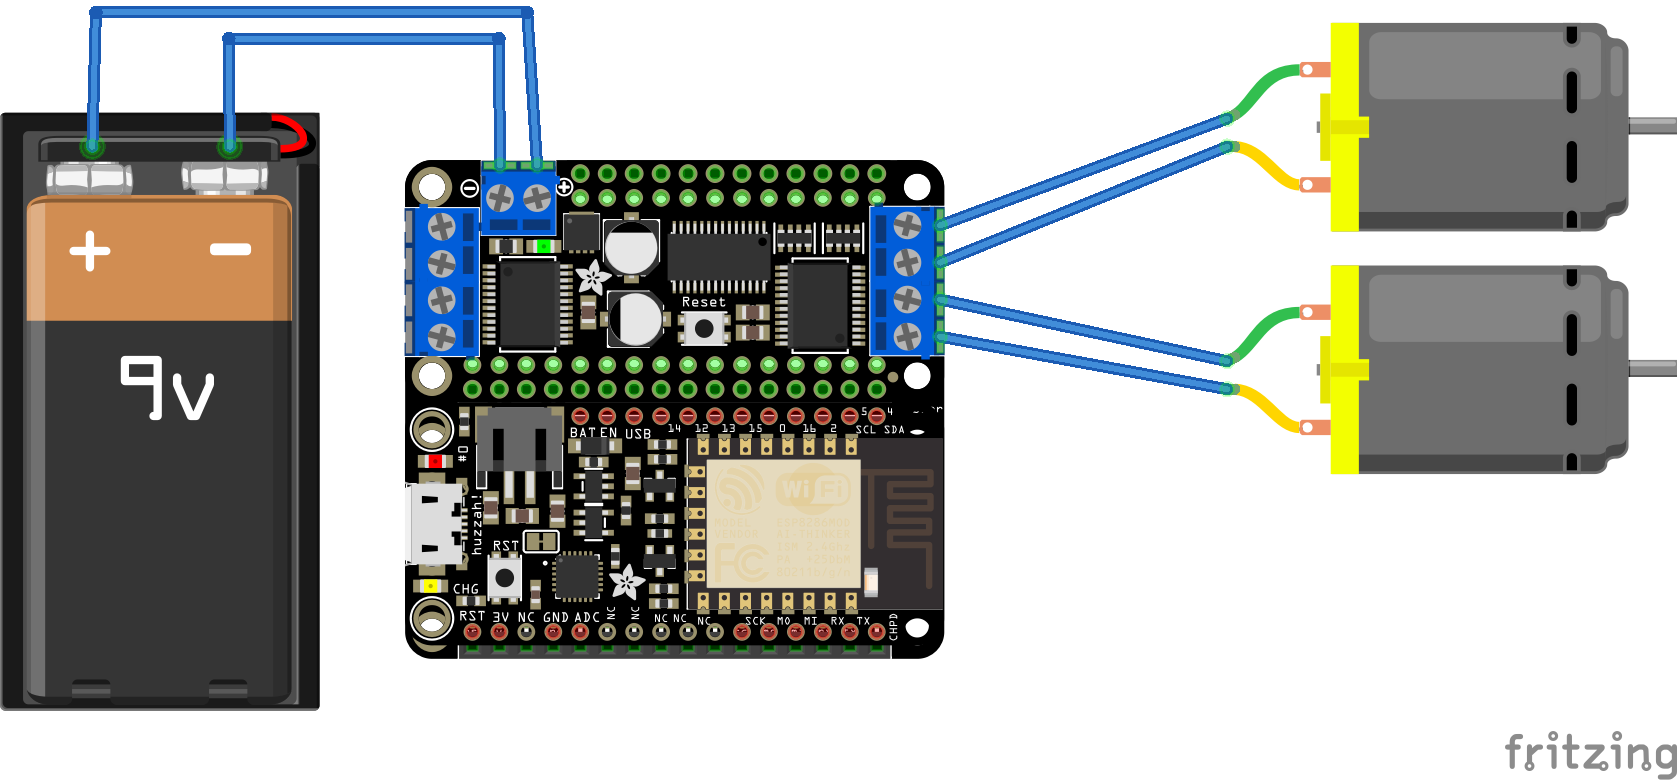
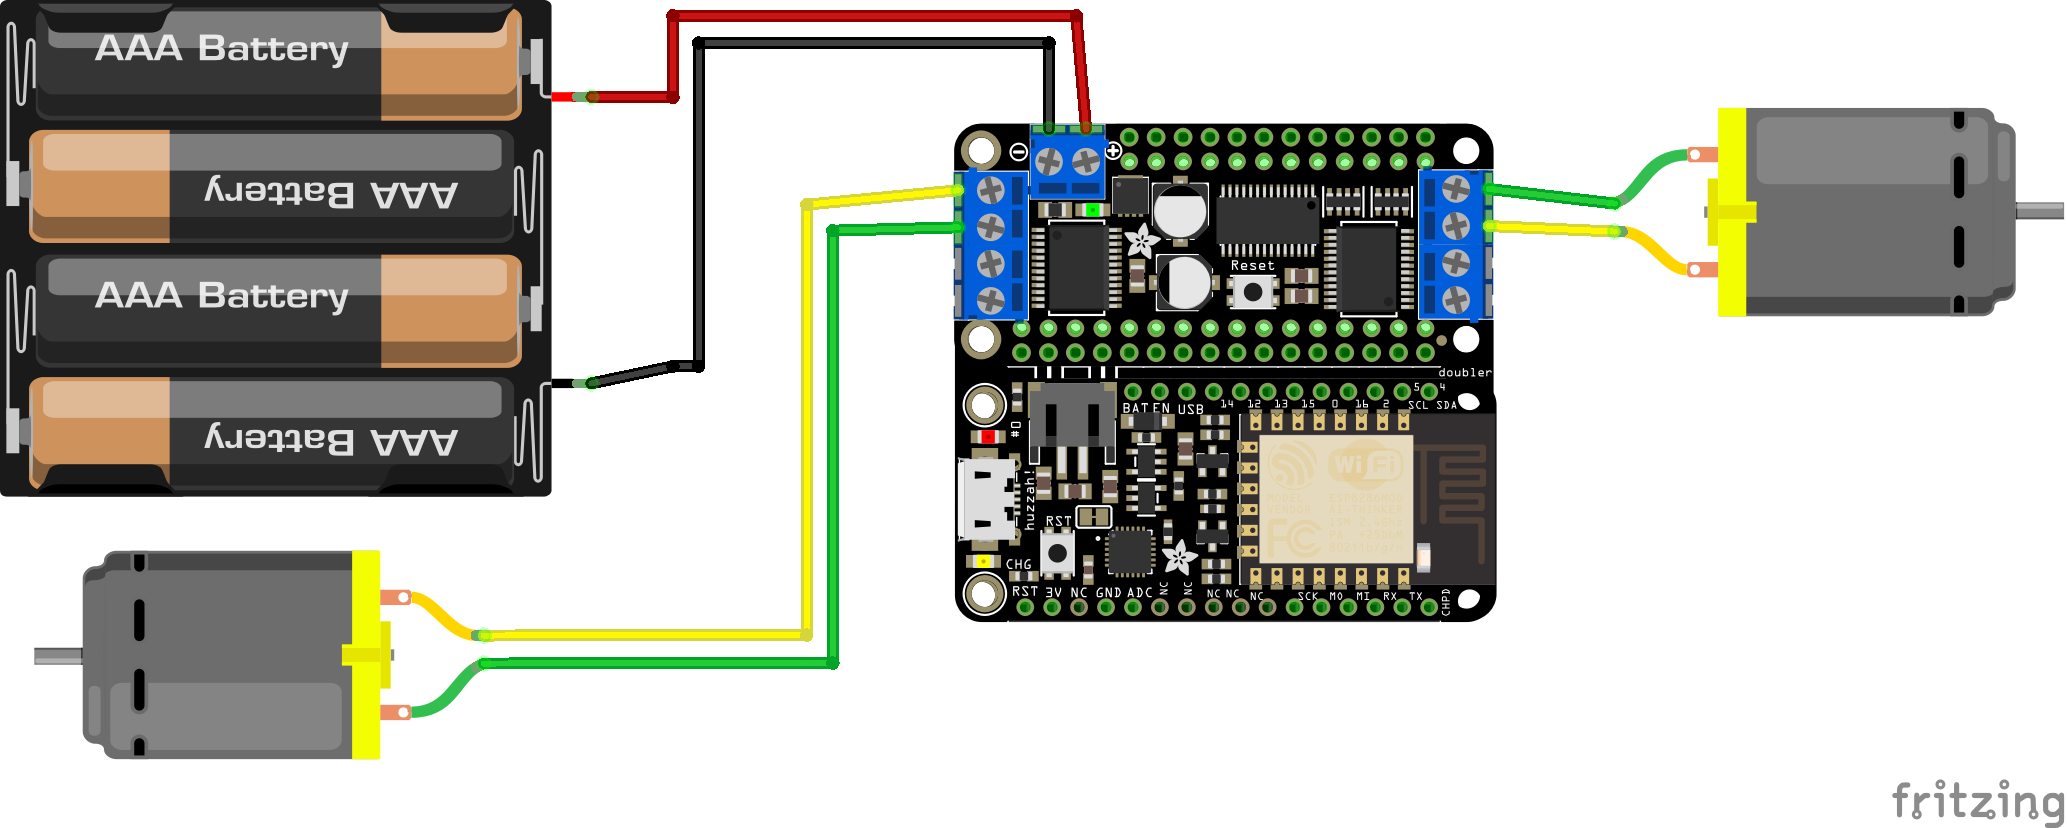
Agregando información a Readme, y agregando archivo HOWTO.md. Se refresca el diagrama para usar las actuales baterías 4xAAA

diff --git a/HOWTO.md b/HOWTO.md
@@ -1,0 +1,63 @@
+# Guía de construcción y uso del WifiCar con CircuitPython
+
+## Instrucciones
+1. Realizar conexión física
+
+Se recomienda que el soldado de los stacking headers y terminales sea realizado previo al taller. De esta forma la única herramienta necesaria sería un desatornillador de punta phillips para ensamblaje del chasis.
+
+- Soldar stacking headers en el ESP8266 y el Featherwing para motor
+- Soldar terminales de tornillo en Featherwing para motor
+- Poner baterías en holder
+- Conectar holder de baterías a puerto de batería para motor, del Featherwing para motores
+
+La tarjeta debería verse de esta forma:
+
+![Diagrama de Fritzing](https://github.com/fede2cr/CircuitPython_WifiCar/blob/master/doc/Diagrama%20conexiones%20-%20Wifi%20Car.png)
+
+2. Instalar CircuitPython en ESP8266: Se carga firmware según (instrucciones de Adafruit)[https://learn.adafruit.com/micropython-basics-how-to-load-micropython-on-a-board/?view=all#esp8266], pero usando release de CircuitPython
+
+```
+esptool.py --port /dev/ttyUSB0 erase_flash
+esptool.py --port /dev/ttyUSB0 --baud 460800 write_flash --flash_size=detect 0 adafruit-circuitpython-feather_huzzah-0.8.4.bin
+```
+Reiniciar el ESP8266, y comprobar que se puede acceder al REPL de CircuitPython, conectándose al puerto serial
+```
+screen /dev/ttyUSB0 115200
+```
+Puede salir de screen digitando ``CTRL+A`` y luego ``:quit``.
+
+3. Luego debe descargar los módulos de CircuitPython de (Featherwing de motor)[https://github.com/adafruit/Adafruit_CircuitPython_PCA9685/releases], de (Register)[https://github.com/adafruit/Adafruit_CircuitPython_Register/releases] y [Bus Device)[https://github.com/adafruit/Adafruit_CircuitPython_BusDevice/releases]:
+
+```
+export AMPY_PORT=/dev/ttyUSB0
+unzip adafruit_pca9685.zip
+ampy put adafruit_pca9685
+unzip adafruit_register.zip
+ampy put adafruit_register
+unzip adafruit_bus_device.zip
+ampy put adafruit_bus_device
+ampy ls
+```
+Ahora puedes probar un pequeño "hola mundo" para comprobar que has subido los módulos de forma correcta, y que has conectado correctamente las baterías y motores. Para esto debes ejecutar de nuevo el comando de ``screen`` para entrar en el REPL de CircuitPython.
+**Nota: Si todo funciona correctamente, el carro se va a mover hacia adelante. Acomódelo de forma que no se caiga de la mesa de trabajo**
+```
+from board import *
+import bitbangio as io
+i2c = io.I2C(SCL, SDA)
+from adafruit_pca9685 import motor
+motors = motor.DCMotors(i2c)
+motors.speed(0, 2000)
+motors.speed(3, 2000)
+```
+*Nota: Es posible que el número del motor haya cambiado, por lo que puedes probar cambiando el motor a mover*
+Habiendo comenzado a moverse, el robot solo se va a detener hasta que se agoten las baterías. Para ello digitamos el siguiente comando por cada motor, para iniciar el frenado:
+```
+motors.brake(0)
+motors.brake(3)
+```
+
+## Acceso por Wifi
+Esta es una parte que también puede ser preconfigurada en la tarjeta antes de entregar al estudiante, dependiendo de la naturaleza del laboratorio a realizar.
+Para tener control del IP que recibe la tarjeta, puede definirle un hostname y utilizar el módulo de MulticastDNS (mDNS) para publicar un nombre único por tarjeta.
+
+

diff --git a/README.md b/README.md
@@ -1,6 +1,8 @@
 # CircuitPython_WifiCar
 Carro controlado por medio de Wifi, basado en la micro ESP8266 con el lenguaje educativo CircuitPython, basado en Micropython
 
+Este documento describe las labores a realizar. Una vez que el proyecto tenga avance, el documento HOWTO.md reemplazará buena parte de este README.
+
 ## Descripción
 Greencore Solutions ya tiene un curso de robótica para niños basado en micros Arduino, donde los estudiantes construyen su carro de dos motores el cual es manejado con un control remoto infrarojo, al cual queremos mejorar lo siguiente:
 
@@ -19,8 +21,8 @@ Cambiar a la plataforma de [Feather de Adafruit](https://www.adafruit.com/feathe
 
 ## Plan de trabajo
 - [x] Alistar componentes de hardware: Soldar stacing headers en Feather y Featherwing, remover placa anterior, alistar conectores de batería.
-- [ ] Instalar última versión de CircuitPython en la ESP8266
-- [ ] Ensamblar robot con nueva micro y realizar control básico de motores.
+- [x] Instalar última versión de CircuitPython en la ESP8266
+- [x] Ensamblar robot con nueva micro y realizar control básico de motores.
 - [ ] Usar como base WebREPL para crear una librería que permita control del robot por medio de una página web sencilla así como desde WebREPL.
 - [ ] Crear documentación visual de ensamblaje de robot.
 - [ ] Crear diversos laboratorios que el estudiante pueda seguir para sacarle un mejor provecho a su robot ensamblado y completo.
